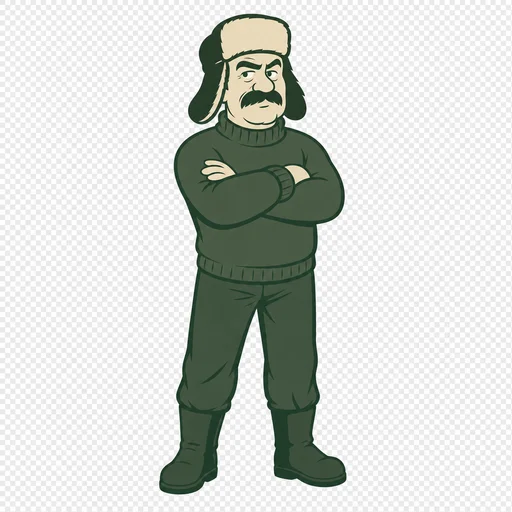
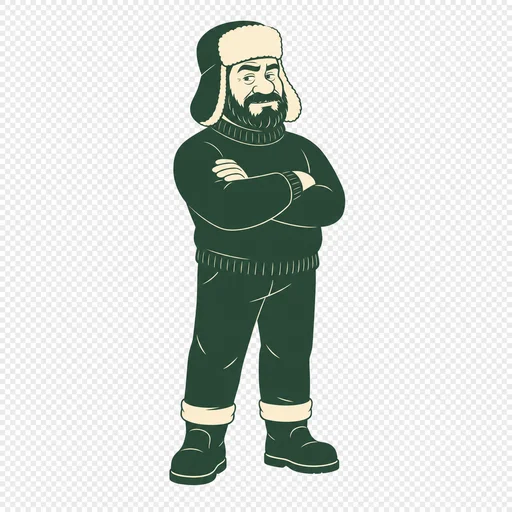
feat: дядя Миша маскот, стикеры, кнопки в SharePanel
- Rename mascot from Вова to Миша (404.html, Mascot404.tsx, new avatar)
- Add sticker pack link (UncleMishaPiz) in SharePanel
- Wrap share buttons in share-links-row for proper alignment
- Bump share-sticker-link font to match share-channel-link
- Store sticker assets in public/stickers/

Changed region(s): [[0.3125, 0.0, 0.6875, 0.9688], [0.3438, 0.1875, 0.375, 0.2188]]

diff --git a/frontend/src/App.css b/frontend/src/App.css
@@ -534,12 +534,13 @@ button {
   align-items: center;
   justify-content: center;
   gap: 0.55rem;
-  margin-top: 1.15rem;
   padding: 0.7rem 1.35rem;
   max-width: 100%;
-  border: 1px solid rgba(61, 255, 154, 0.4);
+  flex-wrap: wrap;
+  border: 1px solid var(--good);
+  border-color: color-mix(in srgb, var(--good) 40%, transparent);
   border-radius: 0.55rem;
-  background: rgba(61, 255, 154, 0.08);
+  background: color-mix(in srgb, var(--good) 8%, transparent);
   color: var(--good);
   font-weight: 800;
   font-size: 0.98rem;
@@ -548,12 +549,46 @@ button {
     transform 0.15s ease,
     background 0.15s ease,
     border-color 0.15s ease;
+  white-space: nowrap;
 }
 
 .share-channel-link:hover {
   transform: translateY(-1px);
-  background: rgba(61, 255, 154, 0.14);
-  border-color: rgba(61, 255, 154, 0.65);
+  background: color-mix(in srgb, var(--good) 14%, transparent);
+  border-color: color-mix(in srgb, var(--good) 65%, transparent);
+}
+
+.share-sticker-link {
+  display: inline-flex;
+  align-items: center;
+  justify-content: center;
+  gap: 0.55rem;
+  padding: 0.7rem 1rem;
+  border: 1px solid color-mix(in srgb, var(--ink) 25%, transparent);
+  border-radius: 0.55rem;
+  background: rgba(255, 255, 255, 0.04);
+  color: var(--ink);
+  font-weight: 800;
+  font-size: 0.98rem;
+  text-decoration: none;
+  white-space: nowrap;
+  transition:
+    transform 0.15s ease,
+    background 0.15s ease;
+}
+
+.share-sticker-link:hover {
+  transform: translateY(-1px);
+  background: rgba(255, 255, 255, 0.08);
+}
+
+.share-links-row {
+  display: flex;
+  flex-wrap: wrap;
+  align-items: center;
+  justify-content: center;
+  gap: 0.65rem;
+  margin-top: 1.15rem;
 }
 
 .error-block {

diff --git a/frontend/src/SharePanel.tsx b/frontend/src/SharePanel.tsx
@@ -147,15 +147,28 @@ export function SharePanel({ stats, wisdom }: Props) {
         )}
       </div>
 
-      <a
-        className="share-channel-link"
-        href="https://t.me/pizdato_net"
-        target="_blank"
-        rel="noopener noreferrer me"
-      >
-        <IconTelegram className="share-icon" />
-        <span>Подписаться на @pizdato_net</span>
-      </a>
+      <div className="share-links-row">
+        <a
+          className="share-channel-link"
+          href="https://t.me/pizdato_net"
+          target="_blank"
+          rel="noopener noreferrer me"
+        >
+          <svg className="share-icon" viewBox="0 0 24 24" fill="none" stroke="currentColor" strokeWidth="2" strokeLinecap="round" strokeLinejoin="round">
+            <path d="M5 12h14M12 5l7 7-7 7" />
+          </svg>
+          <span>Подписаться на @pizdato_net</span>
+        </a>
+
+        <a
+          className="share-sticker-link"
+          href="https://t.me/addstickers/UncleMishaPiz"
+          target="_blank"
+          rel="noopener noreferrer me"
+        >
+          <span>📦 Стикеры дяди Миши</span>
+        </a>
+      </div>
     </div>
   )
 }

diff --git a/frontend/public/404.html b/frontend/public/404.html
@@ -82,7 +82,7 @@
     </style>
   </head>
   <body>
-    <img src="/mascot/mascot-404.webp" alt="Дядя Вова" width="256" height="256" />
+    <img src="/mascot/mascot-404.webp" alt="Дядя Миша" width="256" height="256" />
     <h1>404</h1>
     <p>Ты забрёл в хуёвый угол</p>
     <div class="actions">

diff --git a/frontend/src/Mascot404.tsx b/frontend/src/Mascot404.tsx
@@ -62,7 +62,7 @@ export default function Mascot404() {
         <img
           className="mascot-img"
           src="/mascot/mascot-404.webp"
-          alt="Дядя Вова"
+          alt="Дядя Миша"
           width={256}
           height={256}
           decoding="async"
